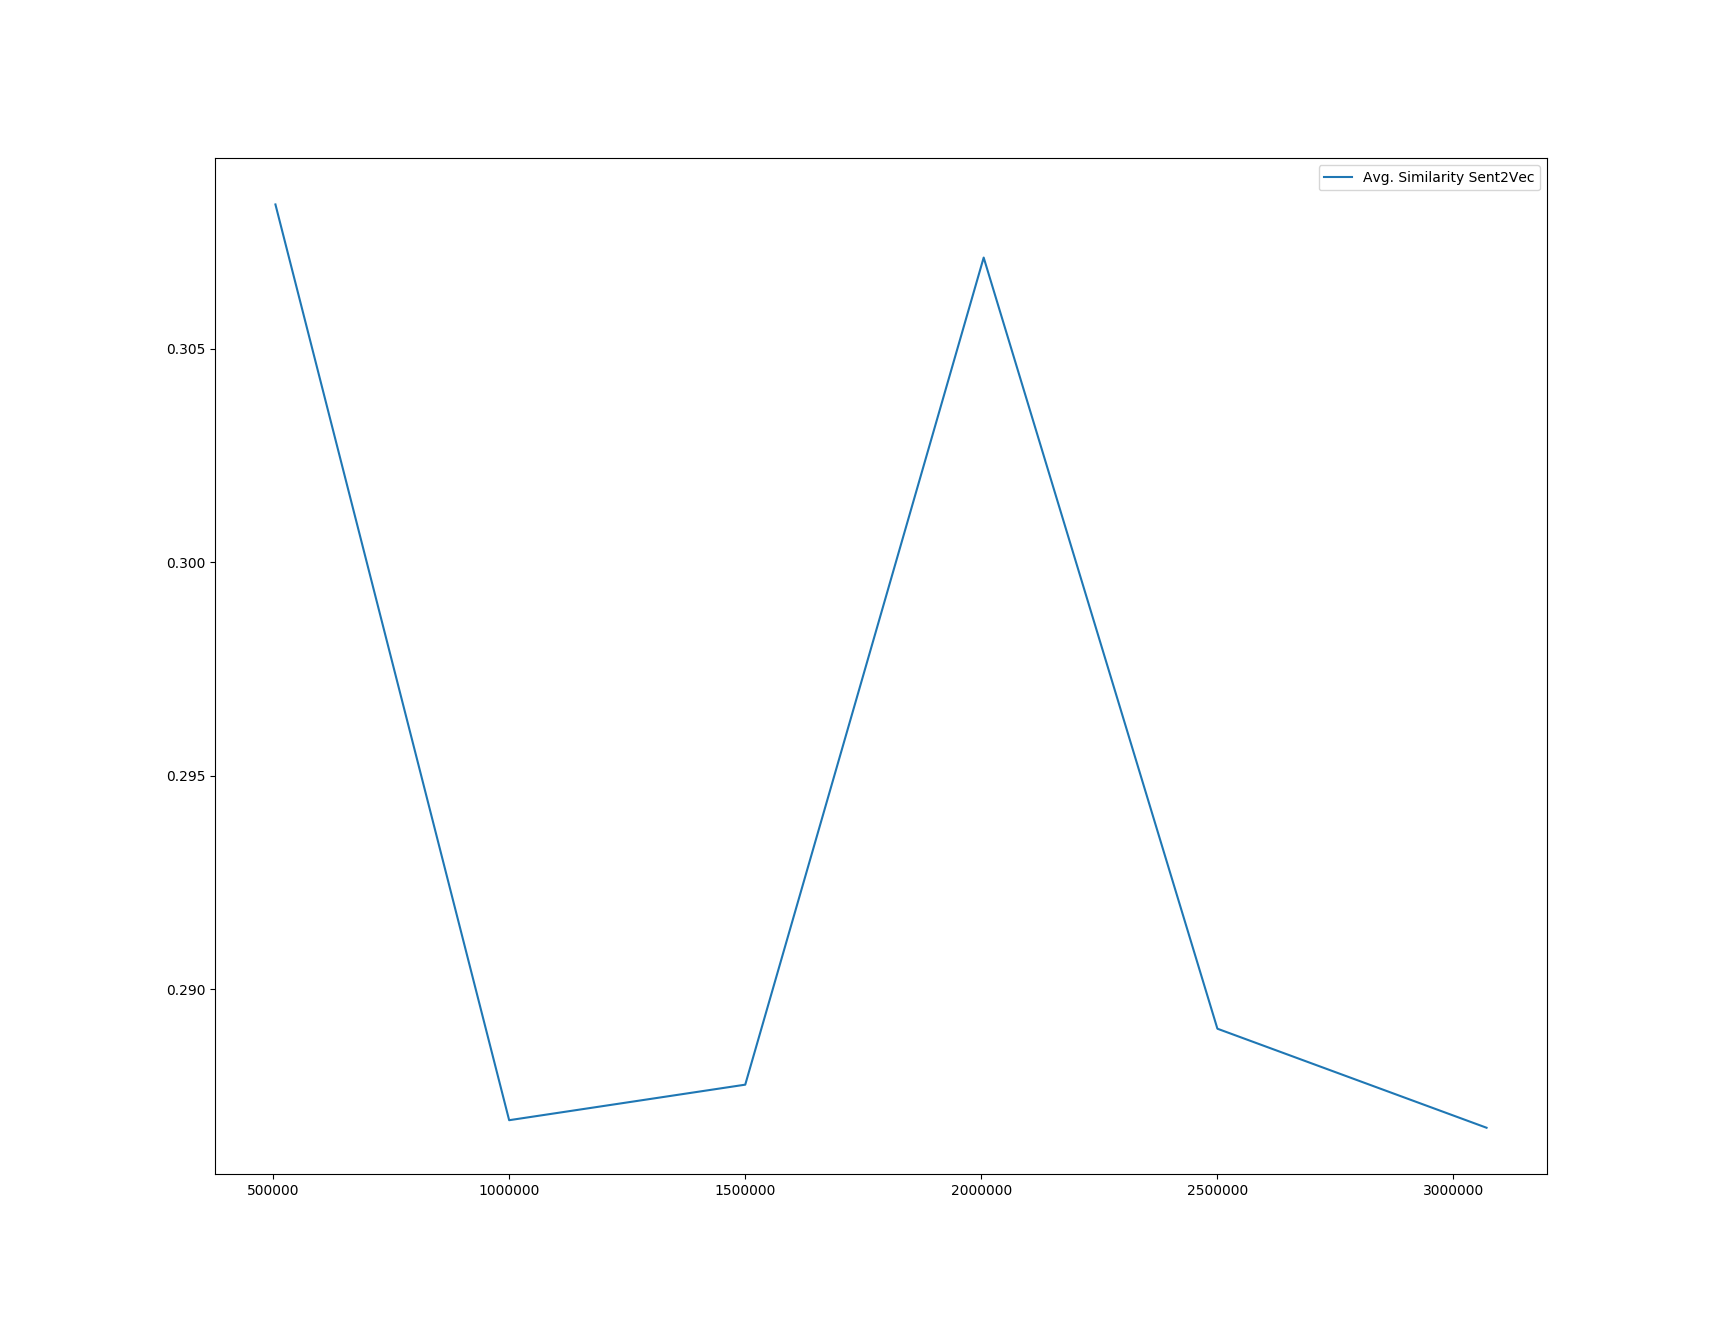
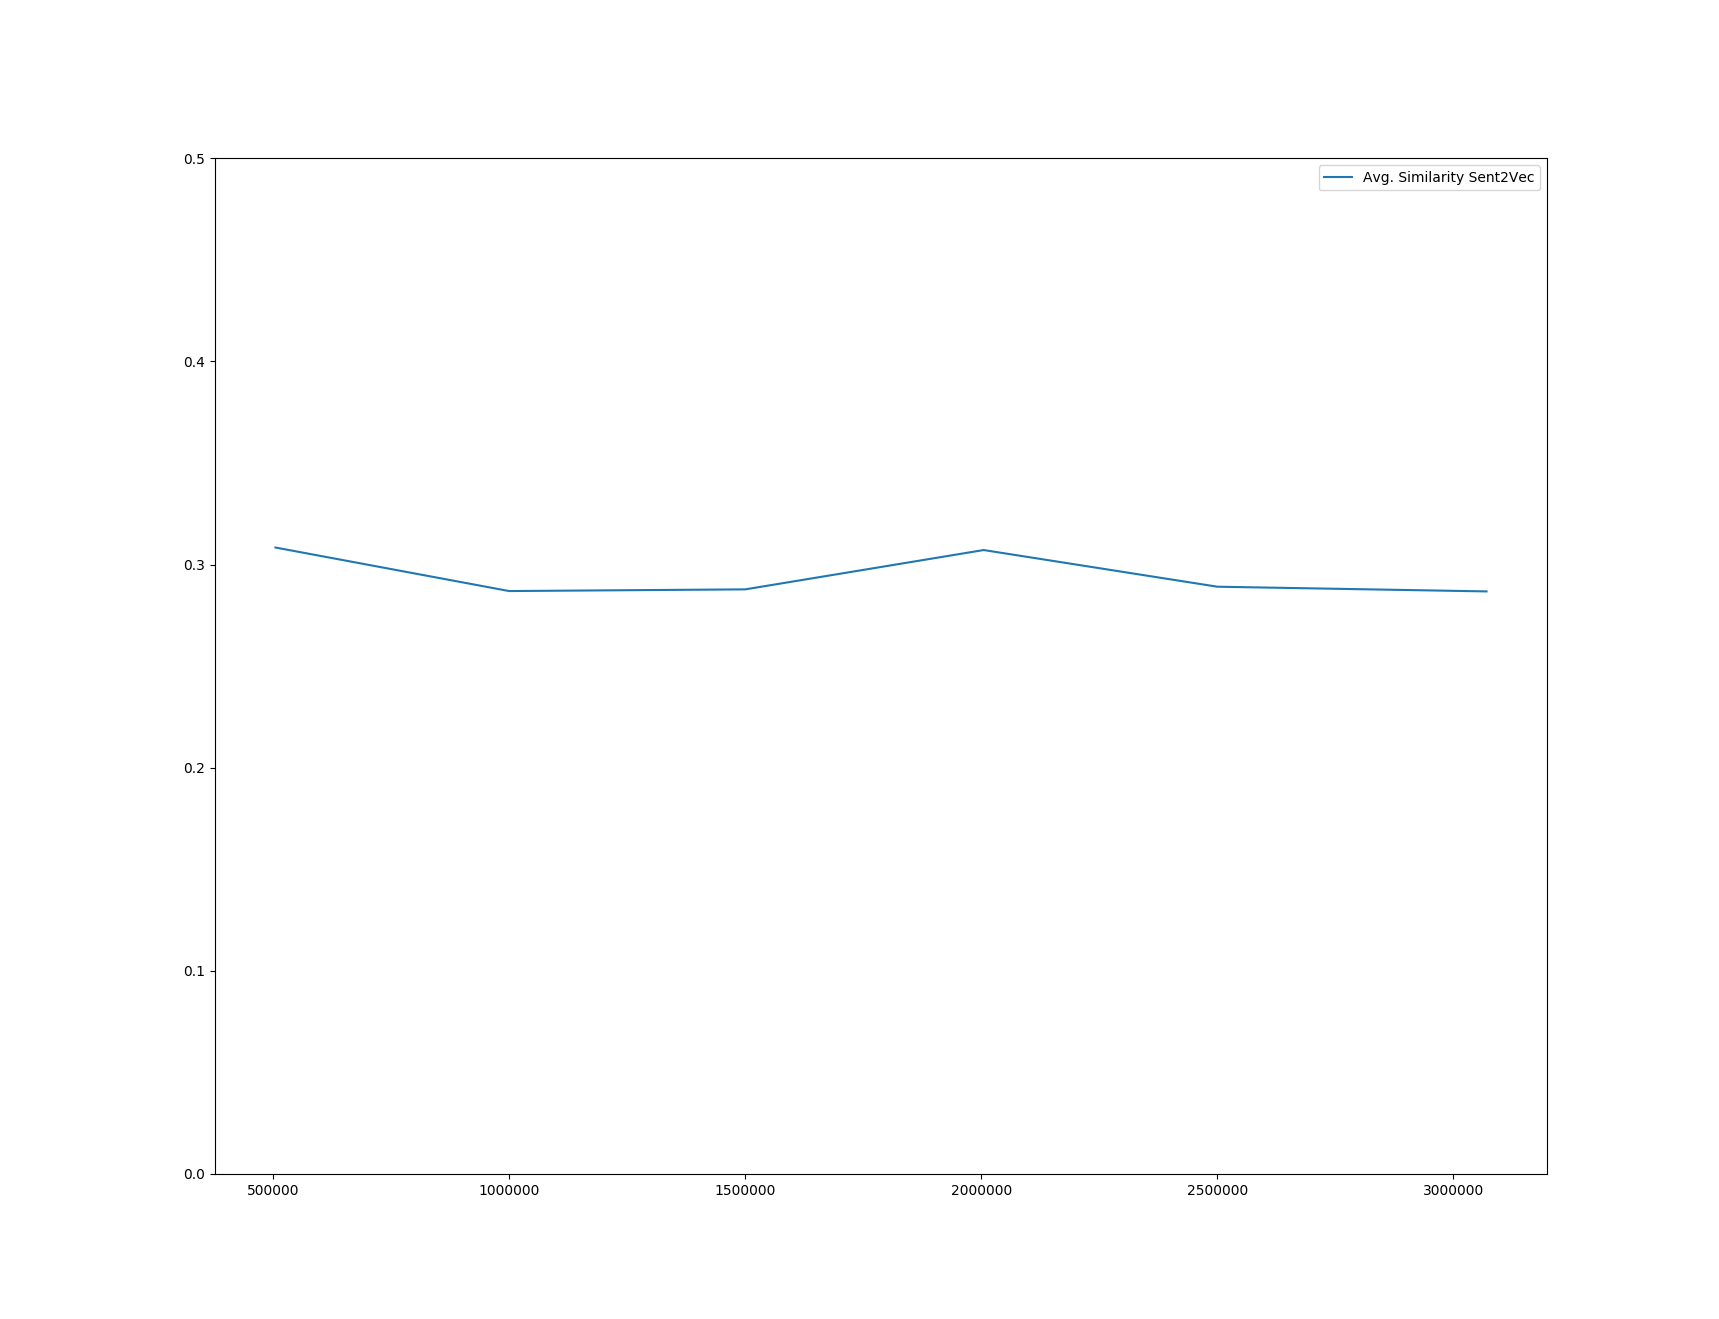
update images in experiments sent2vec

diff --git a/report/experiments_and_results.tex b/report/experiments_and_results.tex
@@ -170,13 +170,53 @@ After we have seen that the training process looks fine, we are going to asses t
 	\label{result:test_performance:reddit}
 \end{figure}
 
-\paragraph{However, it improved....} die loss/perplex auf dem testset zeigt an, dass er keine Fortschritte gemacht hat. Wenn wir jedoch Beispielsätze testen, sehen wir sehr wohl eine Entwicklung (hier das erste mal erwähnen, dass mehrmals über den gleichen corpus bei reddit vielleicht keine gute idee war, \ref{results:example_output1:reddit} gibt beim letzten checkpoint wieder eine schlechte frühere antwort "the movie"). Beispiele für Verbesserung des Sprachmodelles:(\ref{results:example_output1:reddit}, \ref{results:example_output2:reddit}, \ref{results:example_output1:OpenSubtitle}, \ref{results:example_output2:OpenSubtitle}) Loss/Perplx ist anscheinend keine verlässliche metrik im zusammenhang mit sprachmodell, deshalb sen2vec versuchen.
+\paragraph{However, it improved....} die loss/perplex auf dem testset zeigt wie vorhergehend besprochen, dass er keine Fortschritte gemacht hat. Wenn wir jedoch Beispielsätze testen, sehen wir sehr wohl eine positive Entwicklung (hier das erste mal erwähnen, dass mehrmals über den gleichen corpus bei reddit vielleicht keine gute idee war, \ref{results:example_output1:reddit} gibt beim letzten checkpoint wieder eine schlechte frühere antwort "the movie"). Beispiele für Verbesserung des Sprachmodelles:(\ref{results:example_output1:reddit}, \ref{results:example_output2:reddit}, \ref{results:example_output1:OpenSubtitle}, \ref{results:example_output2:OpenSubtitle}) Loss/Perplx ist anscheinend keine verlässliche metrik im zusammenhang mit sprachmodell, deshalb sen2vec versuchen.
+
+\subsection{Sent2Vec Analysis}
+As described in Chapter~\ref{fundamentals:sent2vec_test}
+Ergebnisse für die beiden Sent2Vec Embeddings, pro Modell \ref{results:sent2vec:opensubtitles:results} und \ref{results:sent2vec:reddit:result}.
+\paragraph{The semantic accuracy } nim insgesamt leicht zu. Reddit scheint bei den twitter Embeddings schlechter zu werden, dies zeigt, dass die Resultate
+ 
+ \paragraph{The semantic accuracy}
+\begin{figure}[H]
+	\minipage{0.5\textwidth}
+	\includegraphics[width=\linewidth]{img/plots/opensubtitles_not_reversed/s2v_wiki_cosine_similarity.png}
+	\centering
+	\small
+	\text{Evaluation with the wiki model.}
+	\endminipage\hfill
+	\minipage{0.5\textwidth}
+	\includegraphics[width=\linewidth]{img/plots/opensubtitles_not_reversed/s2v_twitter_cosine_similarity.png}
+	\centering
+	\small
+	\text{Evaluation with the twitter model.}
+	\endminipage\hfill
+	\caption{Results of the evaluation with Sent2Vec on the outputs of the OpenSubtitles models using the pretrained models found on the Sent2Vec GitHub page.}
+	\label{results:sent2vec:opensubtitles:results}
+\end{figure}
+
+\begin{figure}[H]
+	\minipage{0.5\textwidth}
+	\includegraphics[width=\linewidth]{img/plots/reddit/s2v_wiki_cosine_similarity.png}
+	\centering
+	\small
+	\text{Evaluation with the wiki model.}
+	\endminipage\hfill
+	\minipage{0.5\textwidth}
+	\includegraphics[width=\linewidth]{img/plots/reddit/s2v_twitter_cosine_similarity.png}
+	\centering
+	\small
+	\text{Evaluation with the twitter model.}
+	\endminipage\hfill
+	\caption{Results of the evaluation with Sent2Vec on the outputs of the Reddit models using the pretrained models found on the Sent2Vec GitHub page.}
+	\label{results:sent2vec:reddit:results}
+\end{figure}
+\footnotetext{https://github.com/epfml/sent2vec}
+
+
 
 
 Our first idea was, to see, what kind of sentences the models produce on the test dataset. We did an analysis on the generated sentences and quickly noticed, that there are a few sentences, which the models predict a lot of time (see Tables~\ref{results:test_performance:opensubtitles_sample_outputs} and~\ref{results:test_performance:reddit_sample_outputs}).
-
-
-
 \begin{table}[H]
 	\centering
 	\ra{1.3}
@@ -364,44 +404,6 @@ This result stands in contradiction to what we have expected. Instead of
 	\caption{Distributions of the top 100 bigrams in the generated answers when using the test set over multiple time steps of the training.}
 	\label{results:ngram:distributions:opensubtitles}
 \end{figure}
-
-\section{Sent2Vec Analysis}
-As described in Chapter~\ref{fundamentals:sent2vec_test}
-
-\begin{figure}[H]
-	\minipage{0.5\textwidth}
-	\includegraphics[width=\linewidth]{img/plots/opensubtitles_not_reversed/s2v_wiki_cosine_similarity.png}
-	\centering
-	\small
-	\text{Evaluation with the wiki model.}
-	\endminipage\hfill
-	\minipage{0.5\textwidth}
-	\includegraphics[width=\linewidth]{img/plots/opensubtitles_not_reversed/s2v_twitter_cosine_similarity.png}
-	\centering
-	\small
-	\text{Evaluation with the twitter model.}
-	\endminipage\hfill
-	\caption{Results of the evaluation with Sent2Vec on the outputs of the OpenSubtitles models using the pretrained models found on the Sent2Vec GitHub page.}
-	\label{results:sent2vec:opensubtitles:results}
-\end{figure}
-
-\begin{figure}[H]
-	\minipage{0.5\textwidth}
-	\includegraphics[width=\linewidth]{img/plots/reddit/s2v_wiki_cosine_similarity.png}
-	\centering
-	\small
-	\text{Evaluation with the wiki model.}
-	\endminipage\hfill
-	\minipage{0.5\textwidth}
-	\includegraphics[width=\linewidth]{img/plots/reddit/s2v_twitter_cosine_similarity.png}
-	\centering
-	\small
-	\text{Evaluation with the twitter model.}
-	\endminipage\hfill
-	\caption{Results of the evaluation with Sent2Vec on the outputs of the Reddit models using the pretrained models found on the Sent2Vec GitHub page.}
-	\label{results:sent2vec:reddit:results}
-\end{figure}
-\footnotetext{https://github.com/epfml/sent2vec}
 
 \section{Thought Vectors for Input Sequences}
 After the encoder has processed the whole input sequences, it pass it forward to the decoder to construct the output sequence (see Chapter~\ref{fundamentals:seq2seq}). It is the only direct connection the encoder and decoder have in such a model, which means, that the encoder has to ``encode'' all the information into this thought vector before passing it to the decoder. The thought vector hence represents an embedding of the input sequence in an $n$ dimensional vector space, where $n$ stands for the size of the thought vector. To analyze this embeddings, we collected them for 15 different sample sentences and projected them via PCA into two dimensional space, the results of this projection can be see in Figure~\ref{results:thougth_vectors:embeddings:opensubtitles} and~\ref{results:thougth_vectors:embeddings:reddit} below.
